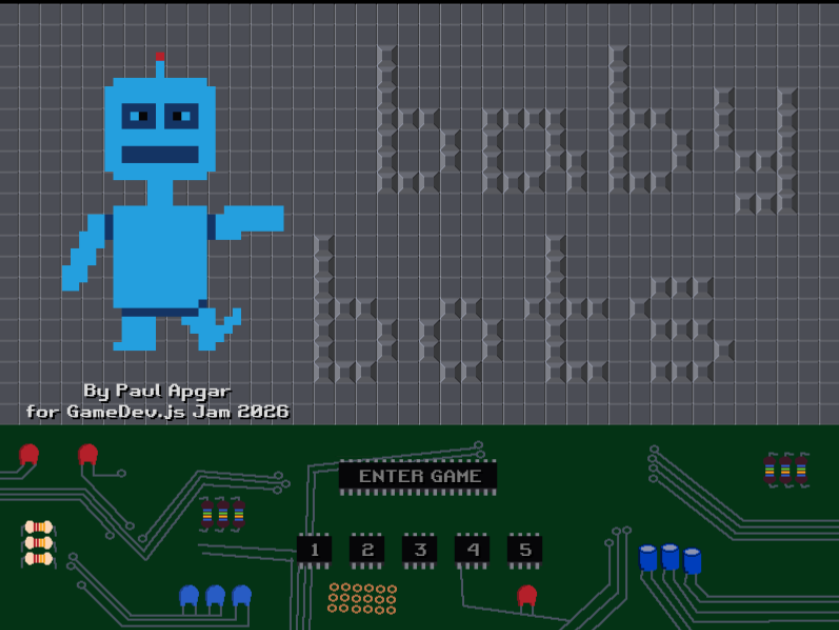
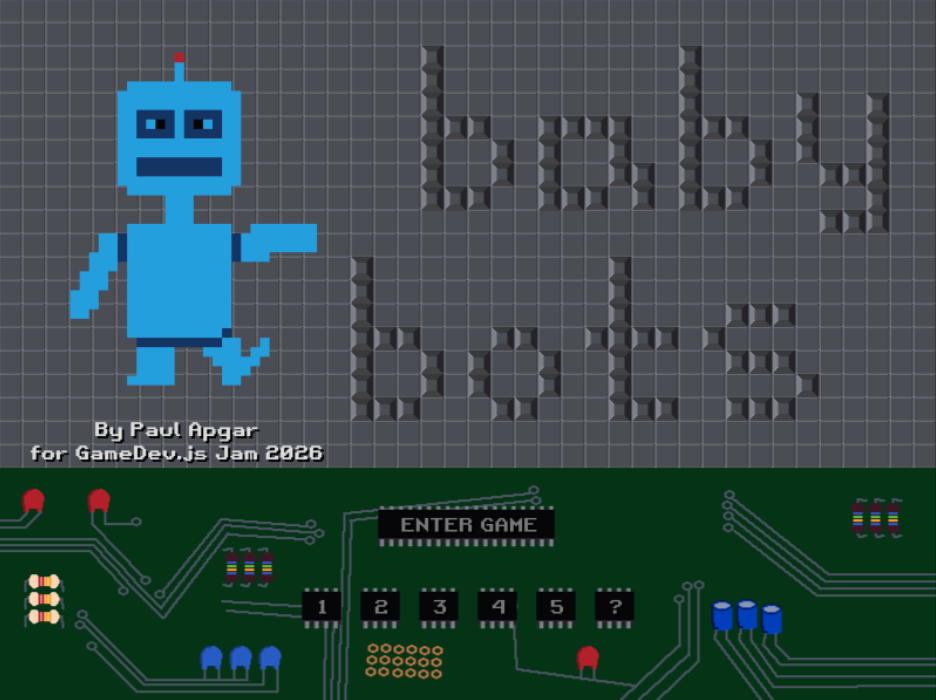
fix freeze on finishing level 5, adjust darkness of title text

diff --git a/src/cliffhanger.ts b/src/cliffhanger.ts
@@ -95,6 +95,14 @@ export class Cliffhanger extends Scene {
     this.blueBot.graphics.use(ANIM.botRunLeft);
     this.add(this.blueBot);
 
+    const leftMask = new Actor({ pos: vec(-100, SCREEN_HEIGHT / 2 + 60), z: 1 });
+    leftMask.graphics.use(new Rectangle({ width: 200, height: 100, color: Color.Black }));
+    this.add(leftMask);
+
+    const rightMask = new Actor({ pos: vec(SCREEN_WIDTH + 100, SCREEN_HEIGHT / 2 + 60), z: 1 });
+    rightMask.graphics.use(new Rectangle({ width: 200, height: 100, color: Color.Black }));
+    this.add(rightMask);
+
     const greenBar = new Actor({ pos: vec(SCREEN_WIDTH / 2, SCREEN_HEIGHT - 40) });
     greenBar.graphics.use(new Rectangle({ width: 200, height: 80, color: Color.fromRGB(18, 56, 18) }));
     this.add(greenBar);

diff --git a/src/models/level.data.ts b/src/models/level.data.ts
@@ -346,7 +346,7 @@ export const LEVEL_DATA: Record<string, LevelData> = {
       "wwwwwwwwww",
     ],
     botFacing: "Left",
-    nextLevel: "Title",
+    nextLevel: "Cliffhanger",
     tokenList: [
       "tr",
       "fwd",
@@ -412,6 +412,18 @@ export const LEVEL_DATA: Record<string, LevelData> = {
     ],
     instructionIcon: ANIM["shockTile1"],
     instructionIconText: "Zappy Tower",
+  },
+  "Cliffhanger": {
+    name: "Cliffhanger",
+    levelType: "cutscene",
+    charMap: [],
+    botFacing: "Up",
+    nextLevel: "",
+    tokenList: [],
+    numTokens: 0,
+    instructionText: [],
+    instructionIcon: TOKEN_SPRITE["unknown"],
+    instructionIconText: "",
   },
 };
 

diff --git a/src/level.ts b/src/level.ts
@@ -780,8 +780,8 @@ export class MyLevel extends Scene {
             });
           } else {
             // Non puzzle levels could be a cutscene
-            if (this.myLevelData.nextLevel === "Title") {
-              this.engine.goToScene("title", {
+            if (this.myLevelData.nextLevel === "Cliffhanger") {
+              this.engine.goToScene("cliffhanger", {
                 destinationIn: new FadeInOut({
                   duration: 1000,
                   direction: "in",
